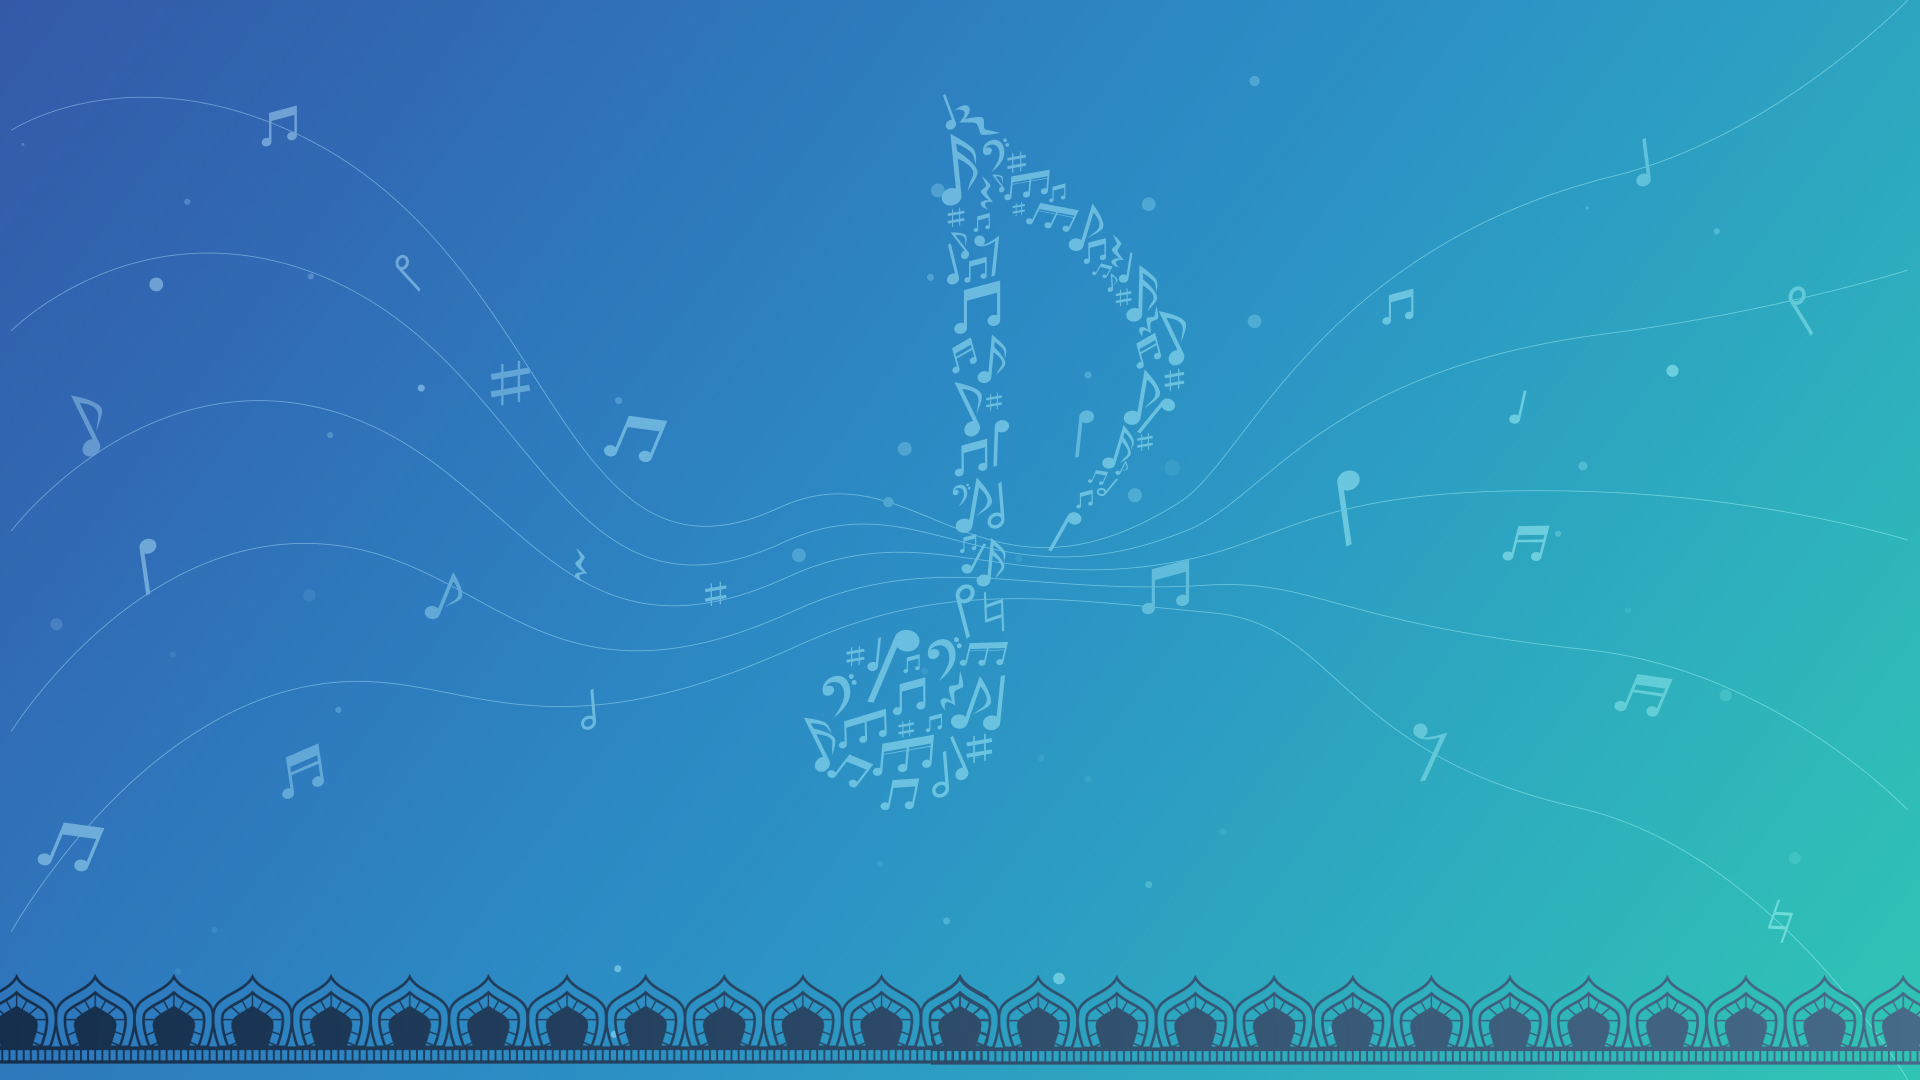
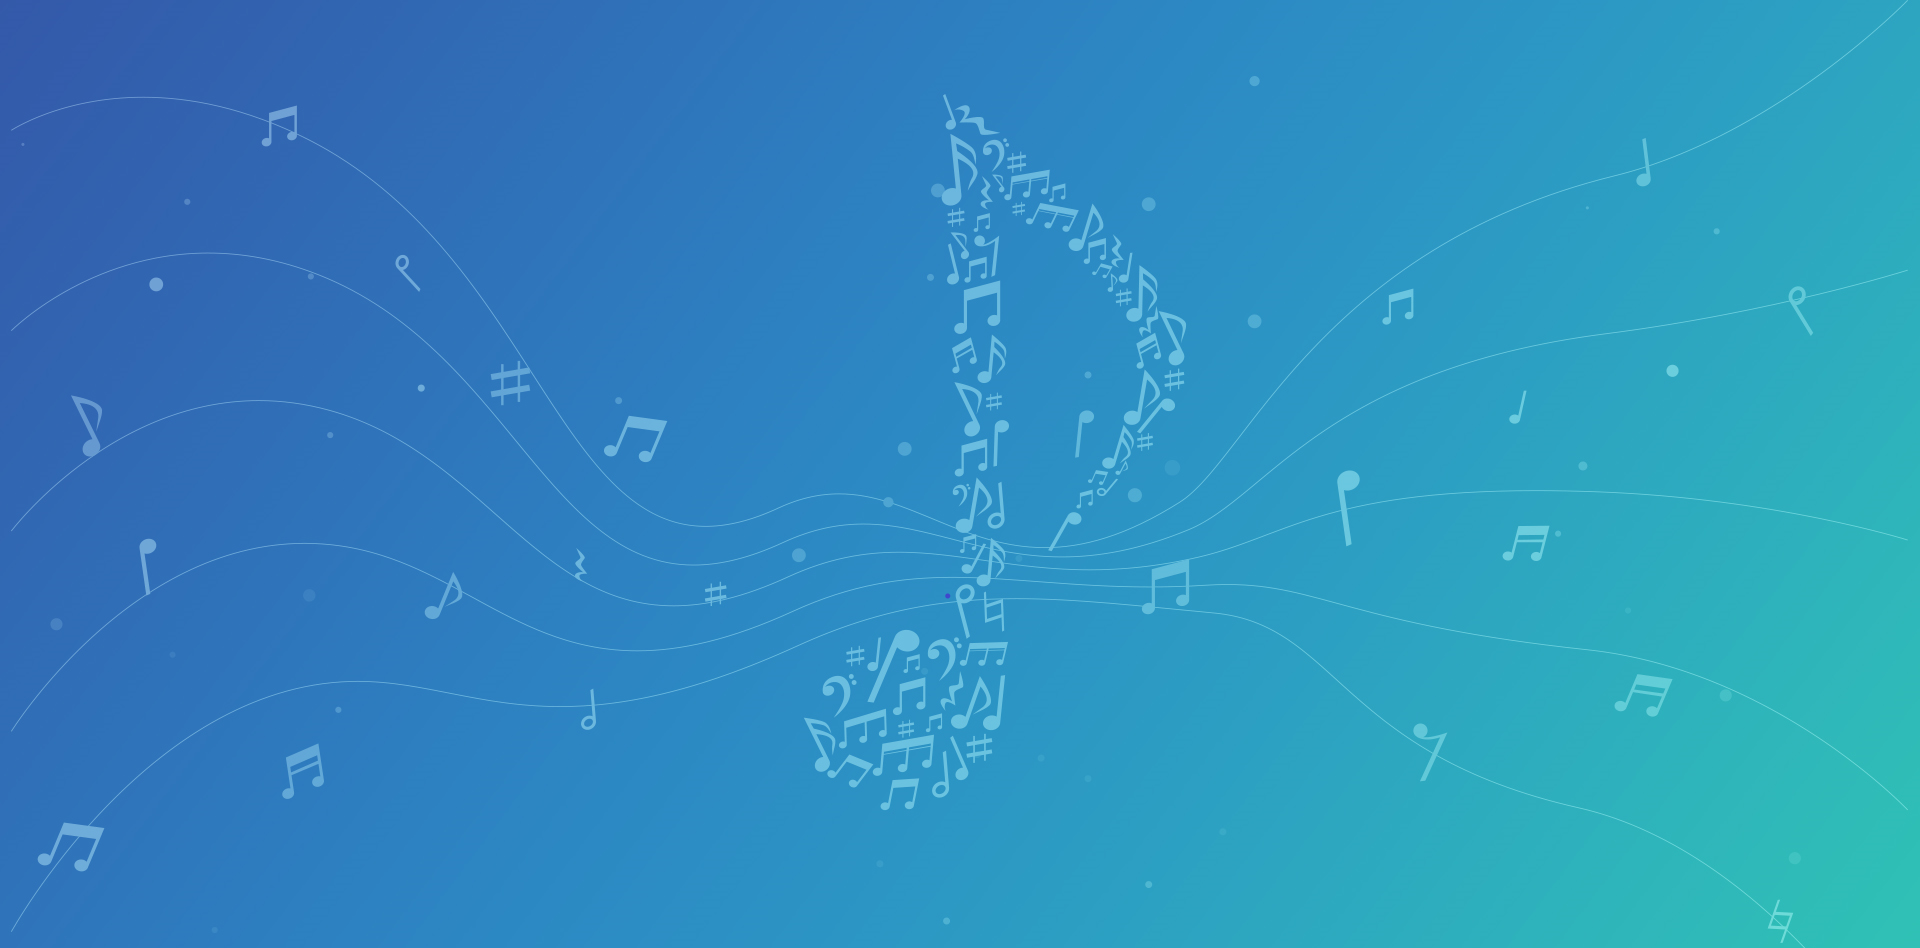
Signed-off-by: Pesala Silva <pesala@simct.com> committed the page size changes

diff --git a/pages/vesakBathiGee.html b/pages/vesakBathiGee.html
@@ -36,7 +36,7 @@
     body {
       font-family: sans-serif;
       background-image: url("../img/bg_vesakBathigee.png");
-      background-size: 100% 100%;
+    /*  background-size: 100% 100%;*/
     }
 
     .content {
@@ -348,5 +348,7 @@ var gallery = document.getElementById('gallery');
 });
 </script>
 </body>
-
+   <footer>
+  <p><img src="../img/borderbathi.png"></p>
+</footer>
 </html>

diff --git a/pages/vesakPaniwida.html b/pages/vesakPaniwida.html
@@ -32,7 +32,7 @@
         body {
             font-family: sans-serif;
             background-image: url("../img/bg_vesakPaniwida.png");
-            background-size: 100% 100%;
+           /* background-size: 100% 100%;*/
         }
 
 
@@ -964,5 +964,7 @@
 
         </script>
 </body>
-
+<footer>
+  <p><img src="../img/bg_vesakPaniwida border.png"></p>
+</footer>
 </html>

diff --git a/pages/vesakNirmana.html b/pages/vesakNirmana.html
@@ -31,7 +31,7 @@
     body {
       font-family: sans-serif;
       background-image: url("../img/bg_vesakNirmana.png");
-      background-size: 100% 100%;
+     /* background-size: 100% 100%;*/
     }
 
     .content {
@@ -518,5 +518,7 @@
     });
   </script>
 </body>
-
+<footer>
+  <p><img src="../img/bg_vesakNirmanaborder.png"></p>
+</footer>
 </html>
